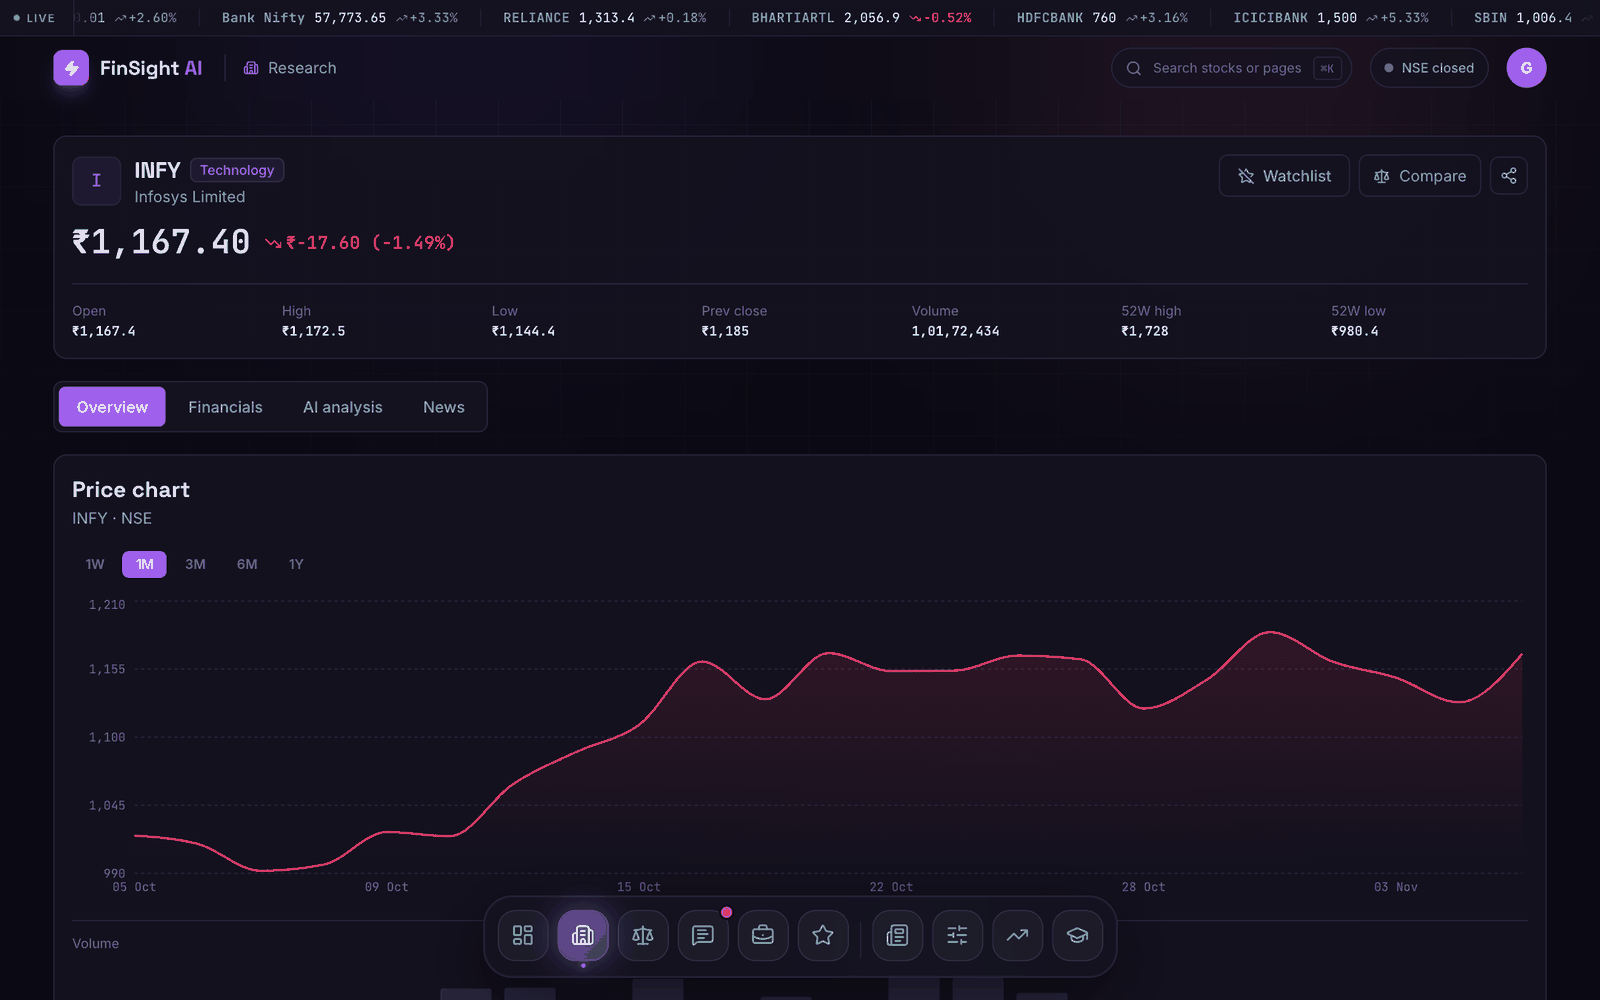
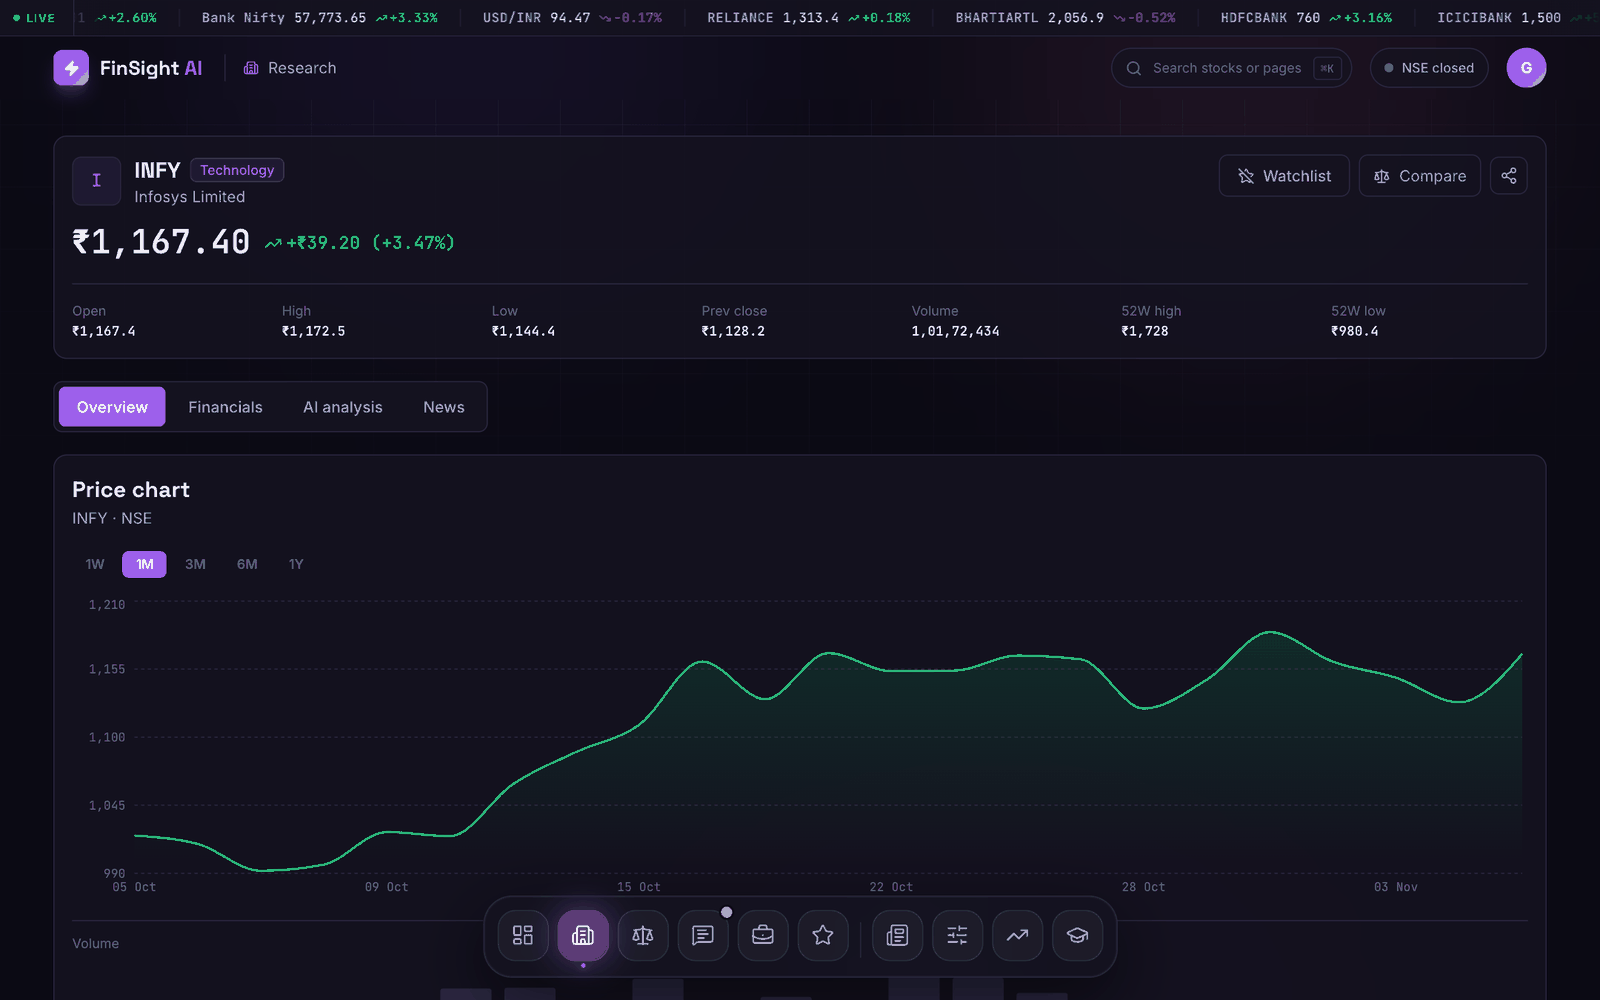
README: recapture screenshots and GIF with fixed data, add live AI analysis and chat shots

diff --git a/README.md b/README.md
@@ -70,12 +70,15 @@
     <td><img src="assets/screens/screener.png" alt="Screener with quick screens" /><br /><sub><b>Screener.</b> Quick screens, saved screens, sortable fundamentals.</sub></td>
   </tr>
   <tr>
-    <td><img src="assets/screens/news.png" alt="News with filters" /><br /><sub><b>News.</b> Topic, stock and sentiment filters.</sub></td>
-    <td><img src="assets/screens/chat.png" alt="AI chat" /><br /><sub><b>AI chat.</b> Gets live data for any stock you mention; stays in finance.</sub></td>
+    <td><img src="assets/screens/ai-analysis.png" alt="AI analysis tab" /><br /><sub><b>AI analysis.</b> Summary, outlook, risk score, strengths and risks, from the figures on the page.</sub></td>
+    <td><img src="assets/screens/chat.png" alt="AI chat answering a comparison, then declining an off-topic question" /><br /><sub><b>AI chat.</b> Grounded in live data (see the source line); declines off-topic questions without a pointless disclaimer.</sub></td>
   </tr>
   <tr>
+    <td><img src="assets/screens/news.png" alt="News with filters" /><br /><sub><b>News.</b> Topic, stock and sentiment filters.</sub></td>
     <td><img src="assets/screens/palette.png" alt="Command palette" /><br /><sub><b>⌘K palette.</b> Jump to any page or company.</sub></td>
-    <td><img src="assets/screens/landing.png" alt="Landing page" /><br /><sub><b>Landing.</b> Same live ticker, guest login in one click.</sub></td>
+  </tr>
+  <tr>
+    <td colspan="2"><img src="assets/screens/landing.png" alt="Landing page" /><br /><sub><b>Landing.</b> Same live ticker, guest login in one click.</sub></td>
   </tr>
 </table>
 
@@ -113,6 +116,7 @@ This was built like a product, not just a codebase.
 These are the problems that were interesting to solve, not just features that were wired up.
 
 - **Resilient market-data layer.** Yahoo's response schema changes often; a strict validation error used to blank an entire company profile. Calls now run with `validateResult: false`, fall back to a lighter endpoint, and serve the **last good value from a 24-hour stale cache** instead of failing, and the app never fabricates data. When a source is down it says so.
+- **Works from a cloud host, not just my laptop.** Yahoo's session-crumb endpoints fail from some datacenter IPs, which once left the deployed ticker, movers, screener and AI analysis empty while everything worked locally. Prices, 52-week range and volume now fall back to the public chart endpoint (ratios stay empty rather than invented), and daily change is computed from the prior daily close, with a regression test.
 - **Background snapshot service.** Screener, movers, ticker and landing page are served from an in-memory snapshot of ~265 stocks: two batched quote calls every 5 minutes, plus a bounded worker pool (5 concurrent) that fetches slower fundamentals once a day. First paint is instant instead of ~265 calls per request; partial data is flagged so the UI can show progress.
 - **AI that isn't blocking and isn't made up.** Analysis lives on its own cached endpoint (6 h TTL) so a slow model call never breaks the company page; output is parsed defensively (markdown fences, extra prose) and validated; on failure it returns an error with a retry instead of a fake "Neutral" result. Chat detects stocks in the user's message and injects live data into the prompt.
 - **Auth hardened end to end.** JWT access token plus `httpOnly` refresh cookie (`SameSite=None; Secure` in production for the cross-site Vercel ↔ Render setup), refresh-interceptor that can't deadlock on auth endpoints, rate limiting per IP behind a proxy, hashed reset tokens, optional email verification via a **6-digit code** (hashed at rest, 15-minute expiry, 5-attempt cap, resend cooldown), and one-click **guest accounts** that a nightly job garbage-collects.
